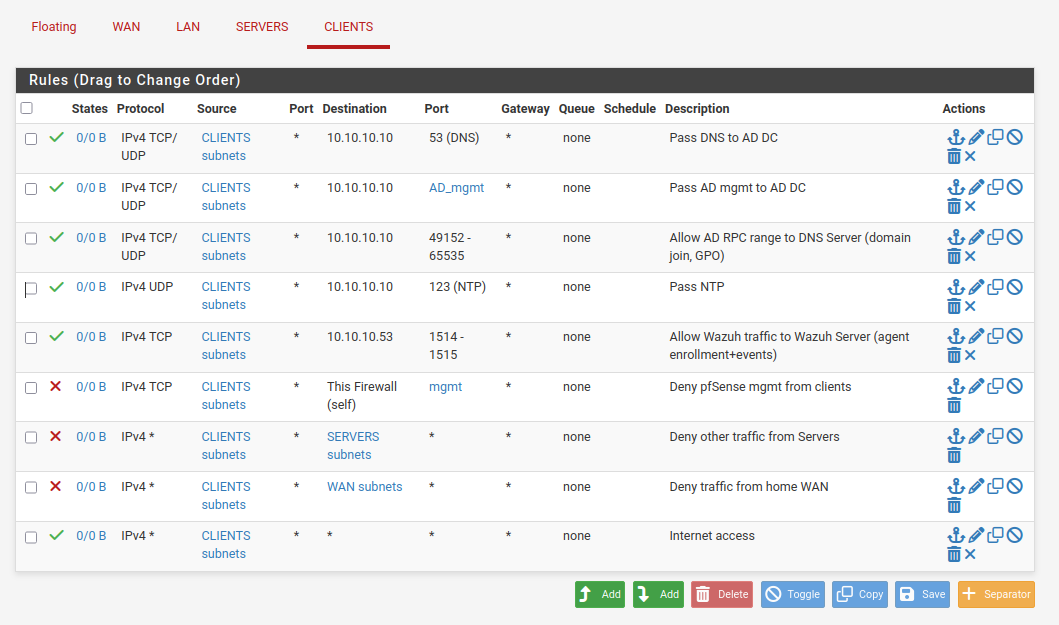
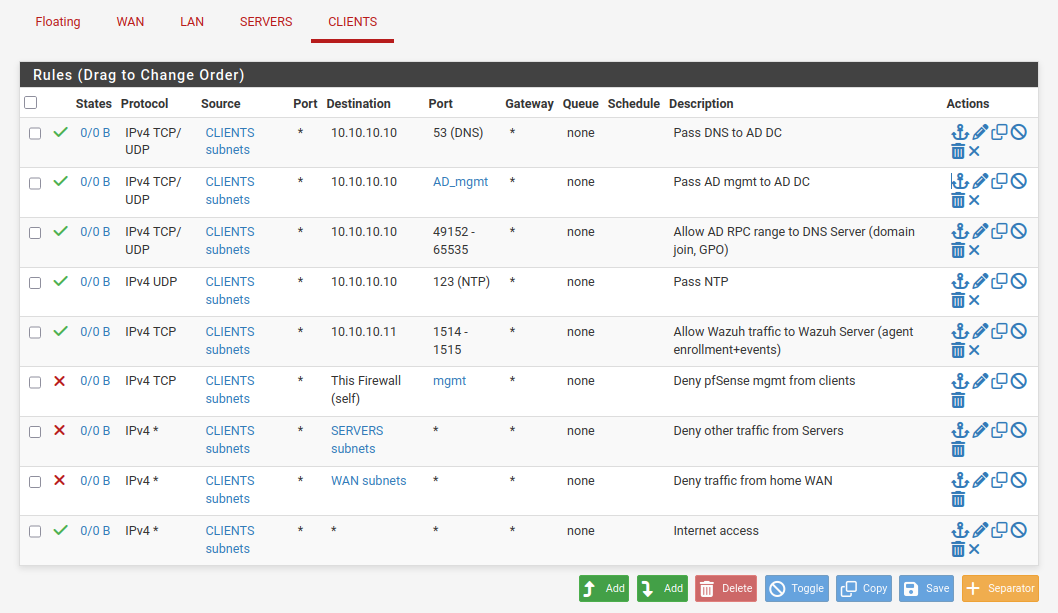
Article updates + fix small screenshots, sticky TOC, editor sanitization
Content: reworked intro, DMZ removed, re-captured CLIENTS-rules and
agents screenshots (3 agents). Fixes: dialog screenshots (02/04/12/13/
14/20) capped at half width; fade animation now removes itself so the
sticky TOC works after view switches; editor scrubs Grammarly artifacts
and uses plaintext-only editing; repaired broken tags from prior edits.

diff --git a/index.html b/index.html
@@ -22,7 +22,8 @@
                (if hand-editing, also add the <li> in <nav class="toc">)
     substage   smaller sub-heading (e.g. 6a / 6b)
     prose      plain paragraph(s); can contain <ul>/<ol class="steps">
-    photo      screenshot w/ caption (click to zoom)
+    photo      screenshot w/ caption (click to zoom); add class
+               "small" to the figure for half-width dialog shots
     collapse   collapsible details block
     table      table inside a horizontal-scroll wrapper
     code       code block with copy button
@@ -187,6 +188,7 @@
   }
   figure.photo figcaption { font-size: 13px; color: var(--text-muted); padding: 10px 6px 2px; }
   figure.photo figcaption::before { content: "Fig. "; color: var(--accent); font-weight: 600; }
+  figure.photo.small { max-width: 50%; margin-left: auto; margin-right: auto; }
 
   /* --- collapsible --- */
   details.collapse {
@@ -303,6 +305,7 @@
 
   @media (max-width: 800px) {
     .layout { grid-template-columns: 1fr; gap: 0; }
+    figure.photo.small { max-width: 100%; }
     nav.toc { position: static; margin-bottom: 40px; max-height: none; }
     nav.toc ol { display: flex; flex-wrap: wrap; gap: 8px; }
     nav.toc a { border: 1px solid var(--border-subtle); border-radius: 20px; padding: 5px 14px; }
@@ -539,9 +542,7 @@
     <main>
 
   <!-- MODULE: prose -->
-  <p class="prose" id="intro" data-toc="Introduction">
-    After my internship at the county, I took it upon myself to create a homelab similar to how a standard enterprise may start their network architectures. I bought an EliteDesk desktop on Facebook Marketplace, but the seller didn’t have the power cable. One week of shipping later, I received a replacement power cable whose port wasn’t compatible with the PC. Looking into my box of IT cables and whatchamacallits, I found an adapter that fits securely into the PC but holds the charger cable like a motel power outlet. Since this homelab is for demonstration purposes only, the core power is being bridged by electrical tape with the tension of a gorilla’s grip.
-  </p>
+  <p class="prose" id="intro" data-toc="Introduction">After my internship at the county, I decided to create a homelab/prod lab similar to how a standard enterprise might start its network architecture. This features a firewall, VLAN segmentations dividing servers and clients, Active Directory Domain Services, Wazuh security monitoring, and two client VMs acting like employee workstations. Since this prod lab is for demonstration purposes only, I’ll continuously update this site as I learn how modern operations can be built using free or open source softwares.</p>
 
   <!-- MODULE: specs -->
   <p class="prose">This EliteDesk features:</p>
@@ -553,9 +554,7 @@
   </div>
 
   <!-- MODULE: prose -->
-  <p class="prose">
-    My home network is on an unmanaged switch, so I cannot create VLAN segmentation to divide different networks. pfSense allows me to create both VLANs and firewall rules between them.
-  </p>
+  <p class="prose">My home network is on an unmanaged switch, so I cannot create VLAN segmentation to divide different networks. pfSense allows me to create both VLANs and firewall rules between them. This limits the number of virtual machines I can add to this network, so five running concurrently maximise the use of one desktop.</p>
 
   <!-- MODULE: table -->
   <div class="table-scroll">
@@ -566,7 +565,6 @@
         <tr><td><code>192.168.1.0/24</code></td><td>WAN / Home network</td></tr>
         <tr><td><code>10.10.10.1/24</code></td><td>Servers</td></tr>
         <tr><td><code>10.10.20.1/24</code></td><td>Clients</td></tr>
-        <tr><td><code>10.10.30.1/24</code></td><td>DMZ</td></tr>
       </tbody>
     </table>
   </div>
@@ -600,11 +598,13 @@
       <text class="d-title" x="320" y="120" text-anchor="middle">pfSense</text>
       <text class="d-sub" x="320" y="136" text-anchor="middle">WAN 192.168.1.101</text>
       <text class="d-sub" x="320" y="150" text-anchor="middle">LAN 10.10.0.1 · vmbr1</text>
+      
+      <!-- Adjusted routing lines to correctly target the two VLAN centers (x=150 and x=390) -->
       <line class="d-line" x1="320" y1="162" x2="320" y2="186"/>
-      <line class="d-line" x1="150" y1="186" x2="490" y2="186"/>
+      <line class="d-line" x1="150" y1="186" x2="390" y2="186"/>
       <line class="d-line" x1="150" y1="186" x2="150" y2="210"/>
-      <line class="d-line" x1="320" y1="186" x2="320" y2="210"/>
-      <line class="d-line" x1="490" y1="186" x2="490" y2="210"/>
+      <line class="d-line" x1="390" y1="186" x2="390" y2="210"/>
+
       <rect class="d-zone" x="40" y="210" width="220" height="180" rx="10"/>
       <text class="d-label" x="52" y="230">VLAN 10 · Servers · 10.10.10.1/24</text>
       <rect class="d-box" x="60" y="244" width="180" height="52" rx="8"/>
@@ -613,6 +613,7 @@
       <rect class="d-box" x="60" y="312" width="180" height="52" rx="8"/>
       <text class="d-title" x="150" y="334" text-anchor="middle">WazuhServer</text>
       <text class="d-sub" x="150" y="350" text-anchor="middle">SIEM · 10.10.10.11</text>
+      
       <rect class="d-zone" x="280" y="210" width="220" height="180" rx="10"/>
       <text class="d-label" x="292" y="230">VLAN 20 · Clients · 10.10.20.1/24</text>
       <rect class="d-box" x="300" y="244" width="180" height="52" rx="8"/>
@@ -621,18 +622,12 @@
       <rect class="d-box" x="300" y="312" width="180" height="52" rx="8"/>
       <text class="d-title" x="390" y="334" text-anchor="middle">LinuxClient1</text>
       <text class="d-sub" x="390" y="350" text-anchor="middle">Kali · 10.10.20.101</text>
-      <rect class="d-zone" x="520" y="210" width="110" height="180" rx="10"/>
-      <text class="d-label" x="532" y="230">VLAN 30 · DMZ</text>
-      <text class="d-sub" x="575" y="300" text-anchor="middle">10.10.30.1/24</text>
-      <text class="d-sub" x="575" y="316" text-anchor="middle">(reserved)</text>
     </svg>
     <p class="diagram-caption">Top-down topology</p>
   </div>
 
   <!-- MODULE: prose -->
-  <p class="prose">
-    Throughout creating this environment numerous times, I practice learning how to set up firewall rules, Active Directory DS, VLANs, DHCP rules, and virtualization by using Proxmox. Because I was guided by both AI and other public resources like Reddit, I was misled numerous times forcing me to reverse, make exceptions, and — although it sounds like giving up but it helps me cement my understanding — reimage the hypervisor. I now have and will share my guided walkthrough of how to create this environment while continuously updating it as I continue to grow my curiosity and hardware.
-  </p>
+  <p class="prose">Throughout creating this environment numerous times, I practice learning how to set up firewall rules, Active Directory DS, VLANs, DHCP rules, and virtualization by using Proxmox as the central host. Because I was guided by both AI and other public resources like Reddit, I was misled numerous times, forcing me to reverse, make exceptions, and — although it sounds like giving up, it helps me cement my understanding — reset and reimage the hypervisor. I now have a guided walkthrough of how to create this exact environment and will continuously update it as I continue to grow my hardware and curiosity. </p>
 
   <!-- ============================== STAGE 1 ============================== -->
   <!-- MODULE: stage -->
@@ -645,10 +640,8 @@
   <details class="collapse">
     <summary>Cleaning / wiping the bootable drive</summary>
     <div class="collapse-body">
-      <p class="prose">
-        I’ve had trouble wiping the USB with both File Explorer and Disk Management. The best application I’ve been using is <code>diskpart</code> in Windows. While the USB is plugged in, open CMD and execute:
-      </p>
-      <!-- MODULE: code -->
+      <p class="prose">In Windows, I’ve had trouble wiping the USB with both File Explorer and Disk Management. The best application I’ve been using is <code>diskpart</code>. While the USB is plugged in, open CMD and execute:</p>
+<!-- MODULE: code -->
       <div class="codeblock">
         <button class="copy-btn" type="button">Copy</button>
         <pre>diskpart        <span class="cm"># opens diskpart</span>
@@ -656,7 +649,7 @@ list disk       <span class="cm"># find USB drive</span>
 select disk #   <span class="cm"># select USB</span>
 clean           <span class="cm"># wipes USB</span></pre>
       </div>
-      <!-- MODULE: photo -->
+<!-- MODULE: photo -->
       <figure class="photo">
         <img src="images/homelab/01-diskpart-clean.jpg" alt="diskpart session showing list disk, select disk 3, and clean" loading="lazy">
         <figcaption>diskpart: list, select, and clean the USB drive.</figcaption>
@@ -674,15 +667,13 @@ clean           <span class="cm"># wipes USB</span></pre>
   </p>
 
   <!-- MODULE: photo -->
-  <figure class="photo">
-    <img src="images/homelab/02-rufus.jpg" alt="Rufus with the USB device and Proxmox ISO selected" loading="lazy">
-    <figcaption>Rufus with the USB stick and Proxmox ISO selected.</figcaption>
-  </figure>
+  <figure class="photo small">
+  <img src="images/homelab/02-rufus.jpg" alt="Rufus with the USB device and Proxmox ISO selected" loading="lazy">
+  <figcaption>Rufus with the USB stick and Proxmox ISO selected.</figcaption>
+</figure>
 
   <!-- MODULE: prose -->
-  <p class="prose">
-    Plug in the bootable USB, monitor, and keyboard to the hypervisor and turn on. Different computers have different keybinds to open the boot manager; F12, F11, F8, or Esc. At the boot manager, choose your USB drive and go through the installation process until you reach the networking settings.
-  </p>
+  <p class="prose">Now in the hypervisor, plug in the bootable USB, monitor, and keyboard, and turn it on. Different computers have different keybinds to open the boot manager: F12, F11, F8, or Esc. At the boot manager, choose your USB drive and go through the installation process until you reach the networking settings.</p>
 
   <!-- MODULE: code -->
   <div class="codeblock">
@@ -759,7 +750,7 @@ VLAN aware:  Checked</pre>
   <code>Datacenter → Node → local → ISO Images → Upload</code></p>
 
   <!-- MODULE: photo -->
-  <figure class="photo">
+  <figure class="photo small">
     <img src="images/homelab/04-proxmox-iso-upload.png" alt="Proxmox ISO upload dialog showing Windows Server 2025 ISO uploading" loading="lazy">
     <figcaption>Uploading an ISO to Proxmox local storage.</figcaption>
   </figure>
@@ -838,7 +829,7 @@ VLAN aware:  Checked</pre>
   <!-- MODULE: callout -->
   <div class="callout">
     <span class="callout-label">**</span>
-    For pfSense, go to <code>Hardware → Add → Network Device → Bridge: vmbr1</code>
+    For pfSense, go to <code>Hardware → Add → Network Device → Bridge: vmbr1</code> so that we have both interfaces.
   </div>
 
   <!-- ============================== STAGE 3A ============================== -->
@@ -860,7 +851,7 @@ VLAN aware:  Checked</pre>
   <details class="collapse">
     <summary>Configuring the WAN IP address</summary>
     <div class="collapse-body">
-      <!-- MODULE: code -->
+<!-- MODULE: code -->
       <div class="codeblock">
         <button class="copy-btn" type="button">Copy</button>
         <pre>Set Interface(s) IP address →
@@ -878,12 +869,11 @@ Do you want to revert to HTTP as the webConfigurator protocol? N</pre>
       <p class="prose">Now the pfSense firewall is on a static IP (<code>192.168.1.101</code>).</p>
     </div>
   </details>
-
-  <!-- MODULE: collapse -->
+      <!-- MODULE: collapse -->
   <details class="collapse">
     <summary>Configuring the LAN IP address</summary>
     <div class="collapse-body">
-      <!-- MODULE: code -->
+<!-- MODULE: code -->
       <div class="codeblock">
         <button class="copy-btn" type="button">Copy</button>
         <pre>Set Interface(s) IP address →
@@ -901,7 +891,8 @@ Do you want to revert to HTTP as the webConfigurator protocol? N</pre>
     </div>
   </details>
 
-  <!-- ============================== STAGE 3B ============================== -->
+  
+      <!-- ============================== STAGE 3B ============================== -->
   <!-- MODULE: stage -->
   <div class="stage" id="stage-3b" data-toc="Configuring VLANs">
     <span class="stage-num">3b</span>
@@ -975,12 +966,10 @@ Do you want to proceed? Y</pre>
   <!-- MODULE: prose -->
   <p class="prose">
     <code>Interfaces → OPT1</code> and change the Description to <strong>SERVERS</strong>.<br>
-    <code>Interfaces → OPT2</code> and change the Description to <strong>CLIENTS</strong>.
+    <code>Interfaces → OPT2</code> and change the Description to <strong>CLIENTS</strong>.<br>
+    <code>Interfaces → WAN</code> → uncheck “Block private networks and loopback” and “Block bogon networks.”<br>
+    <code>Firewall → Rules → WAN</code> → add: pass TCP, source = <code>192.168.1.x</code> (your PC) OR <em>WAN subnets</em>, dest = <em>This Firewall (self)</em>, port 443.
   </p>
-  <ul class="prose">
-    <li><strong>Interfaces → WAN</strong> → uncheck “Block private networks and loopback” and “Block bogon networks.”</li>
-    <li><strong>Firewall → Rules → WAN</strong> → add: pass TCP, source = <code>192.168.1.x</code> (your PC) OR <em>WAN subnets</em>, dest = <em>This Firewall (self)</em>, port 443.</li>
-  </ul>
 
   <!-- ============================== STAGE 3C ============================== -->
   <!-- MODULE: stage -->
@@ -1022,7 +1011,7 @@ Do you want to proceed? Y</pre>
   <!-- MODULE: photo -->
   <figure class="photo">
     <img src="images/homelab/10-pfsense-rules-clients.png" alt="pfSense CLIENTS firewall rules" loading="lazy">
-    <figcaption>CLIENTS rules — DNS/AD management/RPC/NTP to the AD DC, Wazuh agent traffic (ports 1514–1515) to the Wazuh server, deny rules, and internet access. Note: the Wazuh rule should point to <code>10.10.10.11</code> — the screenshot shows an older <code>10.10.10.53</code> address.</figcaption>
+    <figcaption>CLIENTS rules — DNS/AD management/RPC/NTP to the AD DC, Wazuh agent traffic (ports 1514–1515) to the Wazuh server, deny rules, and internet access.</figcaption>
   </figure>
 
   <!-- MODULE: prose -->
@@ -1057,19 +1046,19 @@ Do you want to proceed? Y</pre>
   </p>
 
   <!-- MODULE: photo -->
-  <figure class="photo">
+  <figure class="photo small">
     <img src="images/homelab/12-winserver-ethernet-status.png" alt="Ethernet Status dialog with Properties button highlighted" loading="lazy">
     <figcaption>Ethernet Status → Properties.</figcaption>
   </figure>
 
   <!-- MODULE: photo -->
-  <figure class="photo">
-    <img src="images/homelab/13-winserver-ethernet-properties.png" alt="Ethernet Properties with Internet Protocol Version 4 highlighted" loading="lazy">
+  <figure class="photo small">
+    <img src="images/homelab/13-winserver-ethernet-properties.png" width="50%" height="50%" alt="Ethernet Properties with Internet Protocol Version 4 highlighted" loading="lazy">
     <figcaption>Ethernet Properties → Internet Protocol Version 4 (TCP/IPv4).</figcaption>
   </figure>
 
   <!-- MODULE: photo -->
-  <figure class="photo">
+  <figure class="photo small">
     <img src="images/homelab/14-winserver-static-ip.png" alt="IPv4 properties with static IP 10.10.10.10, gateway 10.10.10.1, DNS 10.10.10.10" loading="lazy">
     <figcaption>Static addressing for the domain controller.</figcaption>
   </figure>
@@ -1133,7 +1122,7 @@ Do you want to proceed? Y</pre>
   </p>
 
   <!-- MODULE: photo -->
-  <figure class="photo">
+  <figure class="photo small">
     <img src="images/homelab/20-winserver-dns-forwarder.png" alt="DNS server Forwarders tab with 10.10.10.1 added" loading="lazy">
     <figcaption>DNS forwarder pointing at the pfSense resolver.</figcaption>
   </figure>
@@ -1249,12 +1238,6 @@ sudo bash ./wazuh-install.sh -a</pre>
     <pre>sudo apt update && sudo apt full-upgrade -y</pre>
   </div>
 
-  <!-- MODULE: photo -->
-  <figure class="photo">
-    <img src="images/homelab/24-linuxclient-apt-upgrade.png" alt="Kali terminal on LinuxClient1 running sudo apt update and full-upgrade" loading="lazy">
-    <figcaption>Updating the Kali client.</figcaption>
-  </figure>
-
   <!-- ============================== STAGE 7 ============================== -->
   <!-- MODULE: stage -->
   <div class="stage" id="stage-7" data-toc="Wazuh agents">
@@ -1266,12 +1249,12 @@ sudo bash ./wazuh-install.sh -a</pre>
   <p class="prose">
     In the WinServer2025 VM, log into the Wazuh dashboard and go to <strong>+ Deploy new agent</strong>.
   </p>
-  <p class="prose">For WinClient1:</p>
+  <p class="prose">For WinClient1 and WinServer2025:</p>
   <ol class="steps">
     <li>Select <strong>MSI 32/64 bits</strong>.</li>
     <li>Server address: <code>10.10.10.11</code></li>
-    <li>Agent name: <code>WinClient1</code></li>
-    <li>On the WinClient1 VM, run PowerShell as administrator and run the command.</li>
+    <li>Agent name: <code>WinClient1 or WinServer2025</code></li>
+    <li>In the respective VM, run PowerShell as administrator and run the command.</li>
     <li>Run <code>NET START Wazuh</code></li>
   </ol>
 
@@ -1305,7 +1288,7 @@ sudo bash ./wazuh-install.sh -a</pre>
   <!-- MODULE: photo -->
   <figure class="photo">
     <img src="images/homelab/27-wazuh-agents-dashboard.png" alt="Wazuh Agents dashboard showing WinClient1 and LinuxClient1 active" loading="lazy">
-    <figcaption>Both agents enrolled and active.</figcaption>
+    <figcaption>All agents enrolled and active.</figcaption>
   </figure>
 
   <!-- ============================== FUTURE ============================== -->
@@ -1319,7 +1302,6 @@ sudo bash ./wazuh-install.sh -a</pre>
   <ul class="checklist">
     <li>Separate admin and user privileges for both Windows and Linux client.</li>
     <li>Send client telemetry to Wazuh server.</li>
-    <li>Add Wazuh agents to WinServer2025 and the Wazuh server itself.</li>
     <li>Start Group Policy and configure permissions for clients.</li>
     <li>Utilize a UTM.</li>
     <li>Utilize an endpoint management platform to manage applications installed on clients.</li>
@@ -1404,6 +1386,8 @@ sudo bash ./wazuh-install.sh -a</pre>
       view.classList.remove('fade-in');
       void view.offsetWidth;
       view.classList.add('fade-in');
+      view.addEventListener('animationend',
+        () => view.classList.remove('fade-in'), { once: true });
     } else {
       applyRoute();
     }

diff --git a/editor.js b/editor.js
@@ -300,6 +300,13 @@
     const clone = previewEl.cloneNode(true);
     clone.querySelectorAll('[contenteditable]').forEach(e => e.removeAttribute('contenteditable'));
     clone.querySelectorAll('details[open]').forEach(e => e.removeAttribute('open'));
+    // scrub artifacts injected by browser extensions (Grammarly & co.)
+    clone.querySelectorAll('grammarly-extension, [data-grammarly-shadow-root]').forEach(e => e.remove());
+    clone.querySelectorAll('*').forEach(e => {
+      for (const a of Array.from(e.attributes)) {
+        if (a.name === 'spellcheck' || a.name.startsWith('data-gramm')) e.removeAttribute(a.name);
+      }
+    });
     let html = serializeBack(clone.innerHTML);
     if (!/\n\s*$/.test(html)) html += '\n\n  ';
     return html;
@@ -351,7 +358,10 @@
   function wirePreviewEditing(preview, block) {
     const startEdit = el => {
       if (el.isContentEditable) return;
-      el.setAttribute('contenteditable', 'true');
+      // plaintext-only stops the browser from inserting styled div/span
+      // wrappers while typing; fall back to true where unsupported
+      el.setAttribute('contenteditable', 'plaintext-only');
+      if (!el.isContentEditable) el.setAttribute('contenteditable', 'true');
       el.focus();
       el.addEventListener('blur', () => {
         el.removeAttribute('contenteditable');